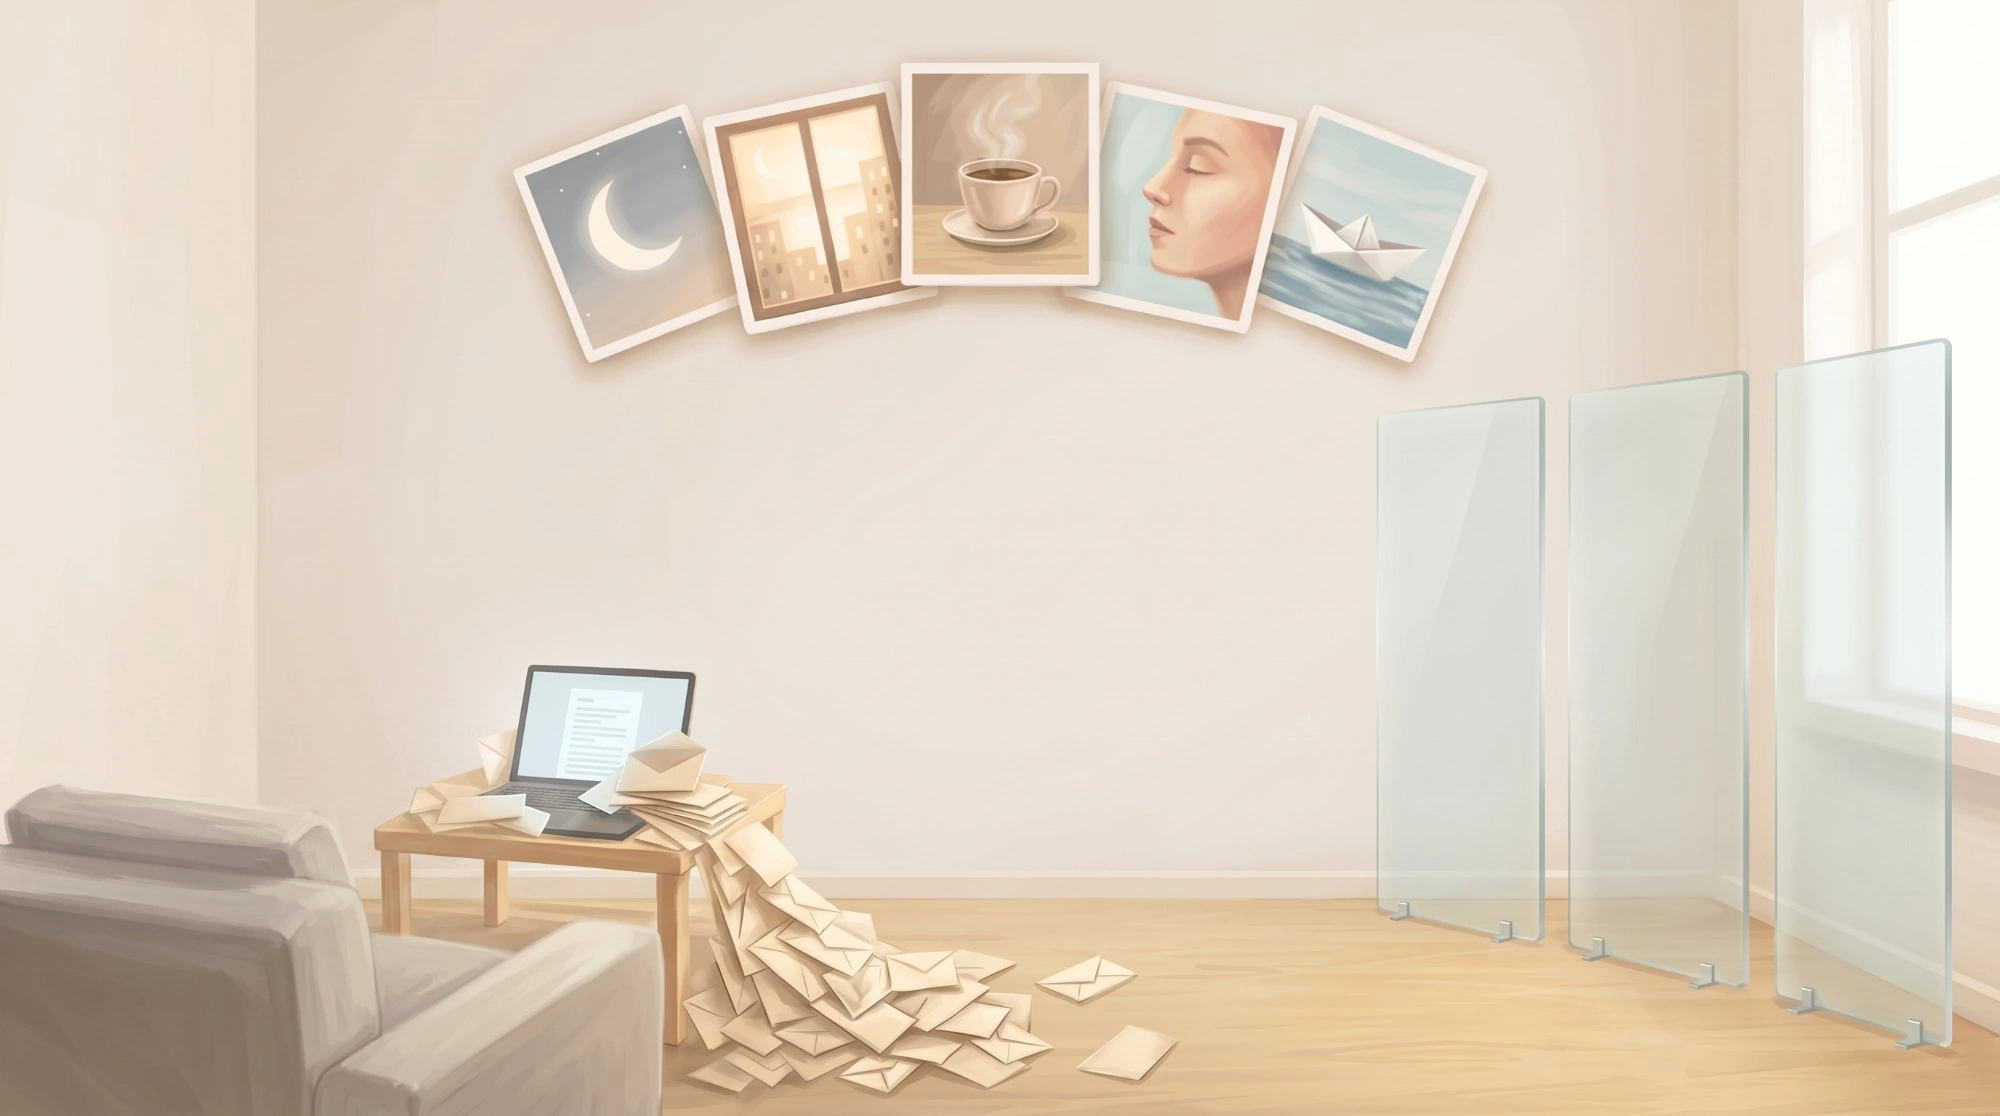
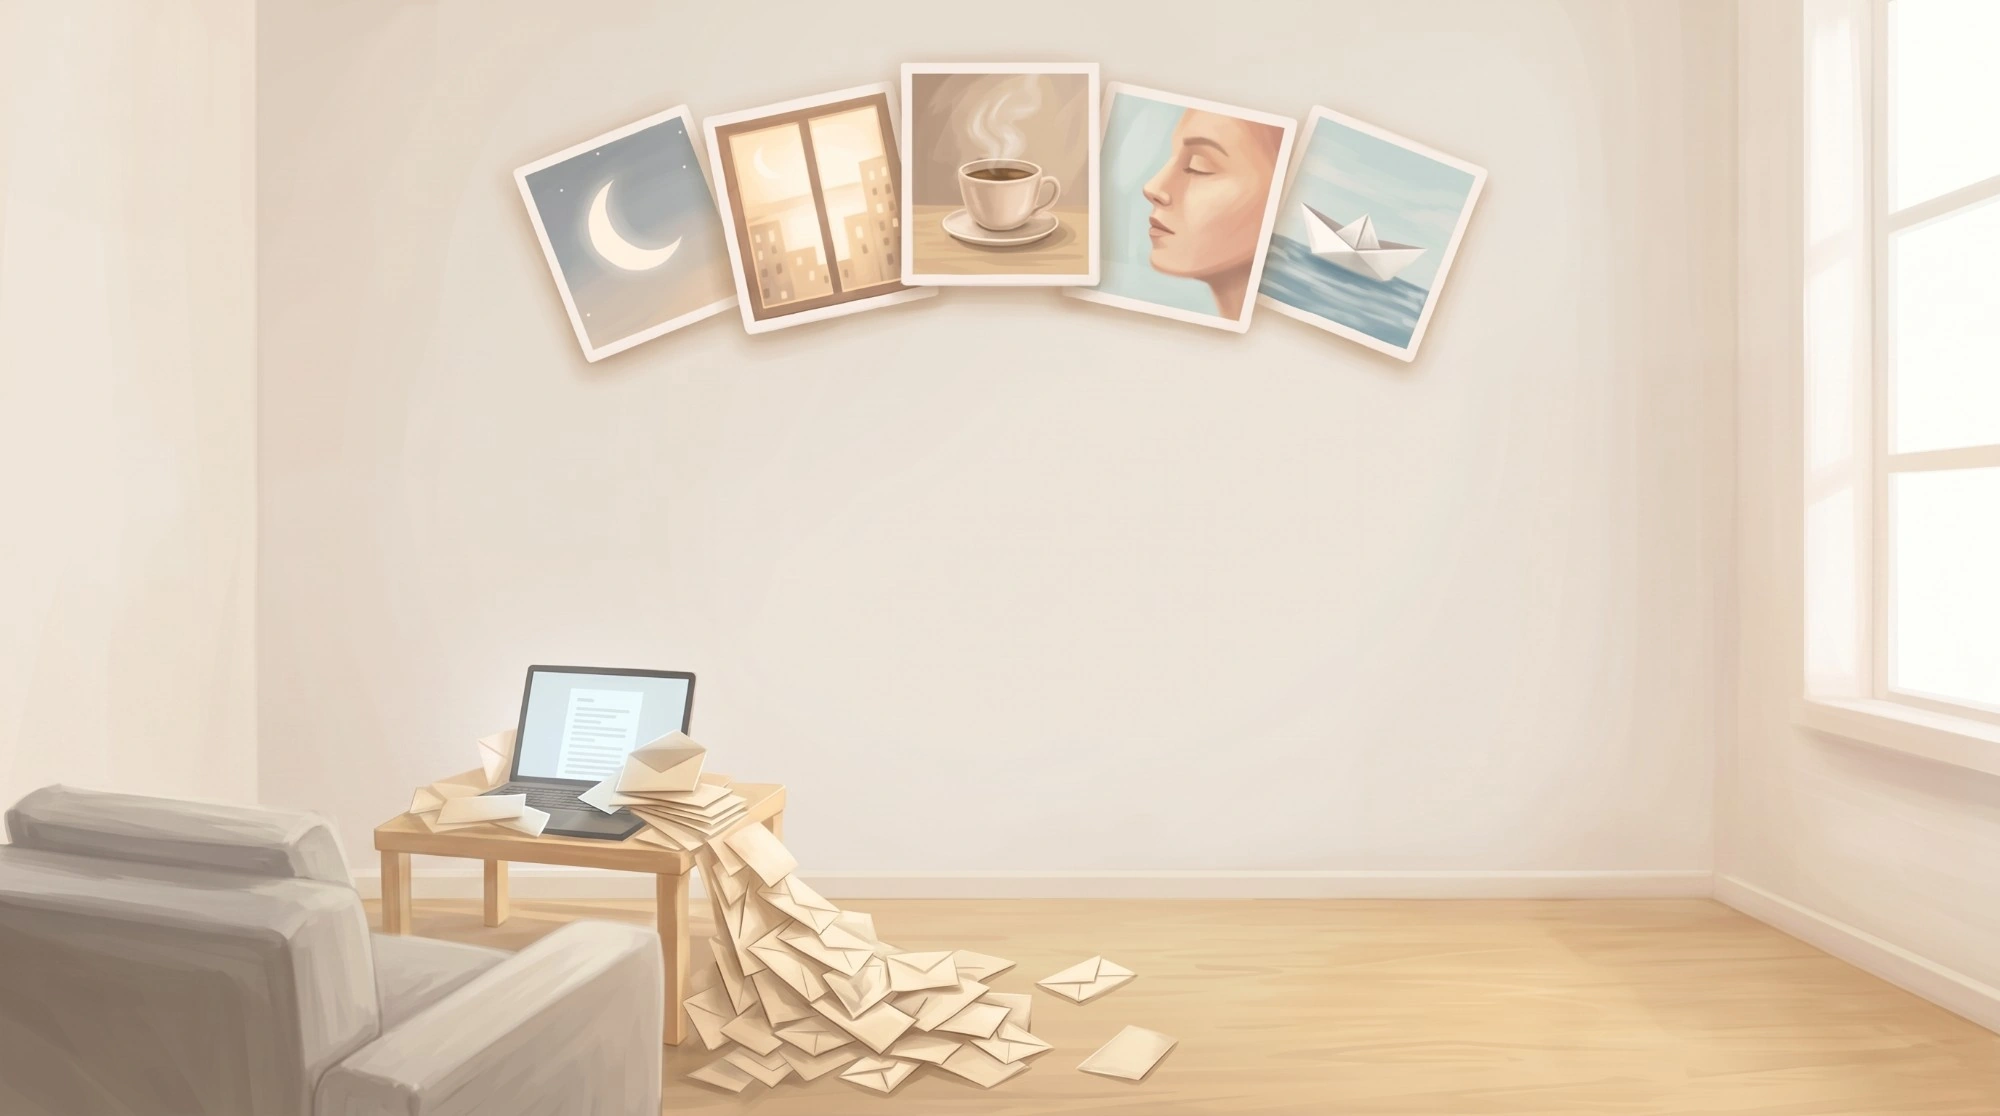
PlayLetter room, pass 2: floating phones, aligned hand screen, warmer evening.
The glass panels are gone from the room (taken from the no-panels plate); three phones hover on
the right with real screens and soft floor shadows. The phone in his hand is mapped to its painted
screen corners and the painted glow ring is cut away. Sunset reads from the window side, night is
softer and no longer purple, the waveform is symmetric, and the frame keeps arc and foot in view.

Claude-Session: https://claude.ai/code/session_01WcPpuVHTTS4izhVfNtPiRx

diff --git a/scenes/playletter-room/index.html b/scenes/playletter-room/index.html
@@ -23,8 +23,6 @@
 
   /* The room is authored at 2000 x 1116; JS scales and pans it to fit. */
   #view { position: fixed; inset: 0; overflow: hidden; }
-  #bleed { position: absolute; inset: -60px; width: calc(100% + 120px); height: calc(100% + 120px); object-fit: cover; filter: blur(40px) saturate(.9); opacity: .9; }
-  #view.wide #stage { -webkit-mask-image: linear-gradient(90deg, transparent, #000 4%, #000 96%, transparent); mask-image: linear-gradient(90deg, transparent, #000 4%, #000 96%, transparent); }
   #stage { position: absolute; left: 0; top: 0; width: 2000px; height: 1116px; transform-origin: 0 0; will-change: transform; }
   #stage > * { position: absolute; }
   .plate { left: 0; top: 0; width: 2000px; height: 1116px; transition: opacity 1.2s ease; }
@@ -45,22 +43,29 @@
   #brand span { display: block; margin-top: 26px; font: 400 40px/1 Jost, sans-serif; letter-spacing: .32em; padding-left: .32em; color: #4A4A45; }
 
   #wave { left: 0; top: 0; width: 2000px; height: 1116px; pointer-events: none; }
+  #view { background: #E9E4DC; }
 
   /* app screens on the glass panels (mapped with matrix3d) */
-  .screen { left: 0; top: 0; width: 540px; height: 1200px; transform-origin: 0 0; overflow: hidden; background: #0D1117; border-radius: 28px; opacity: .93; }
-  .screen img { display: block; width: 540px; }
-  .screen .scroll { position: absolute; left: 0; width: 540px; will-change: transform; }
+  /* floating phones: a dark bezel around the real app screen, hovering over the floor */
+  .fphone { width: 208px; height: 450px; padding: 9px; border-radius: 38px; background: linear-gradient(145deg, #2a2d33, #0e1014 55%, #23262b);
+    box-shadow: 0 0 0 1.5px rgba(255,255,255,.18) inset, 0 30px 60px -20px rgba(30,24,18,.45); will-change: transform; transform-origin: 50% 50%; }
+  .fphone .screen { position: relative; width: 190px; height: 432px; border-radius: 30px; }
+  .fphone .screen img, .fphone .screen .scroll { width: 190px; }
+  .fshadow { width: 200px; height: 34px; border-radius: 50%; background: radial-gradient(closest-side, rgba(60,44,30,.42), rgba(60,44,30,0)); will-change: transform, opacity; }
+  .screen { overflow: hidden; background: #0D1117; }
+  .screen img { display: block; }
+  .screen .scroll { position: absolute; left: 0; will-change: transform; }
   .screen .head, .screen .nav { position: absolute; left: 0; z-index: 2; }
   .screen .head { top: 0; } .screen .nav { bottom: 0; }
-  .screen::after { content: ""; position: absolute; inset: 0; z-index: 3; border-radius: 28px;
+  .screen::after { content: ""; position: absolute; inset: 0; z-index: 3; border-radius: inherit;
     background: linear-gradient(115deg, rgba(255,255,255,.20) 0%, rgba(255,255,255,0) 38%, rgba(255,255,255,0) 70%, rgba(255,255,255,.08) 100%); }
-  .progress { position: absolute; left: 61px; top: 600px; height: 7px; width: 0; background: var(--mint); border-radius: 4px; z-index: 2; }
+  .progress { position: absolute; left: 21px; top: 214px; height: 3px; width: 0; background: var(--mint); border-radius: 2px; z-index: 2; }
 
   /* the man: the body and three cut pieces that move */
   .piece { will-change: transform; }
   .piece > img { position: absolute; left: 0; top: 0; }
-  #handScreen { overflow: hidden; border-radius: 6px; background: #0D1117; }
-  #handScreen img { width: 100%; display: block; will-change: transform; }
+  #handScreen { left: 0; top: 0; width: 120px; height: 280px; overflow: hidden; border-radius: 12px; background: #0D1117; transform-origin: 0 0; }
+  #handScreen img { width: 120px; display: block; will-change: transform; }
 
   #shade { left: 0; top: 0; width: 2000px; height: 1116px; mix-blend-mode: multiply; pointer-events: none; }
   #glow  { left: 0; top: 0; width: 2000px; height: 1116px; mix-blend-mode: screen; pointer-events: none; }
@@ -100,7 +105,6 @@
 </head>
 <body>
 <div id="view" aria-hidden="true">
-  <img id="bleed" src="img/plate-a.webp" alt="">
   <div id="stage">
     <img class="plate" data-wall="a" src="img/plate-a.webp" alt="">
     <img class="plate" data-wall="b" src="img/plate-b.webp" alt="">
@@ -110,13 +114,7 @@
     <div class="wall" data-wall="c" id="frameArt"><img src="img/mark.webp" alt=""></div>
     <div class="wall" data-wall="ab" id="brand"><img src="img/mark.webp" alt=""><span>PLAYLETTER</span></div>
 
-    <div class="screen" id="scrFeed">
-      <img class="head" src="img/scr-feed-head.webp" alt="">
-      <div class="scroll"><img src="img/scr-feed.webp" alt=""><img src="img/scr-feed.webp" alt=""></div>
-      <img class="nav" src="img/scr-feed-nav.webp" alt="">
-    </div>
-    <div class="screen" id="scrPlayer"><img src="img/scr-player.webp" alt=""><div class="progress"></div></div>
-    <div class="screen" id="scrQueue"><div class="scroll"><img src="img/scr-queue.webp" alt=""></div></div>
+    <div class="fshadow" data-i="0"></div><div class="fshadow" data-i="1"></div><div class="fshadow" data-i="2"></div>
 
     <img id="body" class="piece" src="img/man-body.webp" alt="">
     <div id="head" class="piece"><img src="img/man-head.webp" alt=""></div>
@@ -129,6 +127,13 @@
     <img id="arm" src="img/couch-arm.webp" alt="">
 
     <canvas id="shade" width="1000" height="558"></canvas>
+    <div class="fphone" data-i="0"><div class="screen" id="scrFeed">
+      <img class="head" src="img/scr-feed-head.webp" alt="">
+      <div class="scroll"><img src="img/scr-feed.webp" alt=""><img src="img/scr-feed.webp" alt=""></div>
+      <img class="nav" src="img/scr-feed-nav.webp" alt="">
+    </div></div>
+    <div class="fphone" data-i="1"><div class="screen" id="scrPlayer"><img src="img/scr-player.webp" alt=""><div class="progress"></div></div></div>
+    <div class="fphone" data-i="2"><div class="screen" id="scrQueue"><div class="scroll"><img src="img/scr-queue.webp" alt=""></div></div></div>
     <canvas id="wave" width="2000" height="1116"></canvas>
     <canvas id="glow" width="1000" height="558"></canvas>
   </div>
@@ -182,30 +187,30 @@ for (const n of ["head", "hand", "foot"]) {
 { const p = layers.pieces.body; $("#body").style.transformOrigin = `${PIV.body[0] - p.x}px ${PIV.body[1] - p.y}px`; }
 
 // the phone screen in his hand: a small rotated window, under the fingers
-Object.assign($("#handScreen").style, { left: 276 - handBox.x + "px", top: 712 - handBox.y + "px", width: "42px", height: "102px", transform: "rotate(8deg)", transformOrigin: "50% 50%" });
+$("#handScreen").style.transform = quadMatrix(120, 280,
+  [[281, 710], [323, 713], [306, 809], [264, 804]].map(([x, y]) => [x - handBox.x, y - handBox.y]));
 
 // ---------- fit + pan ----------
 const view = $("#view"), stage = $("#stage");
 let fit = { s: 1, ox: 0, oy: 0, pan: 0 };
 function layout() {
   const vw = view.clientWidth, vh = view.clientHeight;
-  // cover the view, but never crop away the photo arc (top) or his foot (bottom): rows 40..1060 stay in
-  const s = Math.max(vh / H, Math.min(Math.max(vw / W, vh / H), vh / 1020));
-  const overX = W * s - vw, overY = H * s - vh;
-  view.classList.toggle("wide", overX < -1);
-  fit = { s, overX, overY, vw, vh };
+  const s = Math.max(vw / W, vh / H);
+  const rows = vh / s;                                   // how many room rows fit
+  const top = rows >= 950 ? Math.min(H - rows, Math.max(0, 530 - rows / 2)) : 1005 - rows;
+  fit = { s, overX: W * s - vw, top, vw, vh };
 }
 addEventListener("resize", layout); layout();
 function applyCamera(t) {
   let x;
-  if (fit.overX <= 1) x = -fit.overX / 2;
+  if (fit.overX <= 1) x = 0;
   else if (reduced) x = -Math.min(fit.overX, Math.max(0, 300 * fit.s - fit.vw * 0.3));
   else {
     // narrow screens: drift slowly between him, the wall, and the panels
     const k = 0.5 - 0.5 * Math.cos((t / 70000) * Math.PI * 2);
     x = -fit.overX * (0.05 + 0.9 * k);
   }
-  const y = fit.overY > 0 ? -Math.min(fit.overY, Math.max(0, 40 * fit.s)) : 0;
+  const y = -fit.top * fit.s;
   stage.style.transform = `translate(${x}px, ${y}px) scale(${fit.s})`;
 }
 
@@ -272,15 +277,26 @@ function inset(q, ix, top, bottom) {
   const pt = (u, v) => lerp2(L(v), R(v), u);
   return [pt(ix, top), pt(1 - ix, top), pt(1 - ix, bottom), pt(ix, bottom)];
 }
-const PANELS = [
-  [[1377, 401], [1546, 397], [1544, 939], [1377, 916]],
-  [[1571, 375], [1748, 372], [1748, 985], [1571, 947]],
-  [[1775, 355], [1950, 339], [1950, 1047], [1777, 1001]],
+// three phones hovering on the right, fanned towards the room
+const PHONES = [
+  { x: 1452, y: 560, r: -7, ry: 14, s: 0.86, period: 6900, amp: 9, phase: 0.0 },
+  { x: 1638, y: 500, r: 0, ry: 0, s: 1.0, period: 7700, amp: 11, phase: 1.9 },
+  { x: 1826, y: 566, r: 7, ry: -14, s: 0.86, period: 7300, amp: 9, phase: 3.7 },
 ];
-[["#scrFeed", 0], ["#scrPlayer", 1], ["#scrQueue", 2]].forEach(([sel, i]) => {
-  const q = inset(PANELS[i], 0.09, 0.07, 0.62);
-  $(sel).style.transform = quadMatrix(540, 1200, q);
-});
+const FLOOR_AT = [950, 944, 956];
+const fphones = [...document.querySelectorAll(".fphone")], fshadows = [...document.querySelectorAll(".fshadow")];
+function floatPhones(t) {
+  PHONES.forEach((p, i) => {
+    const bob = Math.sin(t / p.period * Math.PI * 2 + p.phase) * p.amp;
+    const tilt = Math.sin(t / (p.period * 1.7) + p.phase) * 1.2;
+    Object.assign(fphones[i].style, { left: p.x - 104 + "px", top: p.y - 225 + "px",
+      transform: `perspective(1400px) translateY(${bob}px) rotate(${p.r + tilt * 0.4}deg) rotateY(${p.ry + tilt}deg) scale(${p.s})` });
+    const lift = 1 - (bob + p.amp) / (p.amp * 2);      // higher phone = softer, smaller shadow
+    Object.assign(fshadows[i].style, { left: p.x - 100 + "px", top: FLOOR_AT[i] - 17 + "px",
+      transform: `scale(${(0.8 + 0.12 * lift) * p.s}, ${p.s})`, opacity: 0.55 + 0.3 * lift });
+  });
+}
+floatPhones(0);
 
 // ---------- the day ----------
 const DAY_MS_1X = 8 * 60 * 1000;
@@ -311,15 +327,16 @@ function track(keys, h) {
 }
 // multiply colour of the room, and how much the screens glow
 const AMBIENT = [
-  [4.5, 84, 92, 120, 1],
-  [6.2, 150, 158, 190, 0.7],
-  [7.4, 200, 206, 220, 0.2],
-  [10, 214, 214, 216, 0.05],
-  [14, 218, 214, 208, 0],
-  [17, 214, 202, 188, 0.05],
-  [18.4, 214, 190, 170, 0.25],
-  [19.4, 146, 136, 160, 0.6],
-  [20.6, 84, 92, 120, 1],
+  [4.5, 144, 136, 132, 1],
+  [6.0, 192, 172, 176, 0.6],
+  [7.2, 214, 210, 212, 0.2],
+  [10, 216, 214, 212, 0.05],
+  [14, 220, 214, 206, 0],
+  [16.8, 224, 206, 184, 0.05],
+  [18.0, 240, 192, 146, 0.2],
+  [18.9, 236, 160, 124, 0.4],
+  [19.8, 190, 140, 136, 0.7],
+  [21.0, 144, 136, 132, 1],
 ];
 // sun patch path, in "unfolded" room space: the wall runs down to y=880, then the floor continues below it
 // [hour, cx, cy, skewX, skewY, scaleX, scaleY, strength, warmth]
@@ -370,7 +387,12 @@ function drawLight(h) {
   }
   // multiply layer: the room's ambient colour, with the sun patch lifted back towards white
   shade.globalCompositeOperation = "source-over";
-  shade.fillStyle = `rgb(${r},${g},${b})`; shade.fillRect(0, 0, 1000, 558);
+  const lg = shade.createLinearGradient(1000, 0, 0, 0);
+  const far = (v, cool) => Math.round(v * 0.86 + cool);
+  lg.addColorStop(0, `rgb(${Math.min(255, r + 14)},${Math.min(255, g + 10)},${Math.min(255, b + 6)})`);
+  lg.addColorStop(0.55, `rgb(${r},${g},${b})`);
+  lg.addColorStop(1, `rgb(${far(r, 0)},${far(g, 4)},${far(b, 14)})`);
+  shade.fillStyle = lg; shade.fillRect(0, 0, 1000, 558);
   if (sun && sun[6] > 0.01) {
     const strength = sun[6], warm = sun[7];
     const tmp = patchTint(255, 250 - warm * 8, 242 - warm * 30, strength);
@@ -391,9 +413,9 @@ function drawLight(h) {
       gr.addColorStop(0, `rgba(${col},${a})`); gr.addColorStop(1, `rgba(${col},0)`);
       glow.fillStyle = gr; glow.fillRect(0, 0, 1000, 558);
     };
-    blob(298, 762, 150, "190,225,255", 0.55 * screenGlow);        // phone on his face
-    blob(610, 722, 260, "205,225,255", 0.45 * screenGlow);        // laptop
-    for (const p of PANELS) blob((p[0][0] + p[1][0]) / 2, 560, 300, "150,215,185", 0.30 * screenGlow);
+    blob(292, 760, 110, "235,236,225", 0.42 * screenGlow);        // phone on his face
+    blob(610, 722, 240, "240,232,215", 0.38 * screenGlow);        // laptop
+    for (const p of PHONES) blob(p.x, p.y, 380, "150,215,185", 0.30 * screenGlow);
     blob(1000, 520, 380, "120,200,160", 0.22 * screenGlow * (wall === "c" ? 1.3 : 1));
   }
 }
@@ -417,27 +439,18 @@ function drawWave(t, beat) {
     return Math.max(0, phrase) * (0.35 + 0.65 * syll);
   };
   wave.lineCap = "round";
-  if (wall === "c") {
-    // the room's heartbeat, centre wall
-    const x0 = 520, x1 = 1330, y = 600, step = 14;
+  const bars = (x0, x1, y, step, width, maxA, alpha, mirror) => {
     for (let x = x0; x <= x1; x += step) {
-      const edge = Math.sin(((x - x0) / (x1 - x0)) * Math.PI);
-      const a = (18 + 150 * talk(x) * edge + 60 * beat * Math.exp(-((x - 925) ** 2) / 26000)) * edge;
-      wave.strokeStyle = `rgba(95,176,137,${0.55 + 0.4 * edge})`; wave.lineWidth = 7;
+      const u = (x - x0) / (x1 - x0);
+      const edge = Math.sin(u * Math.PI);
+      const k = mirror ? 1000 - Math.abs(x - 1000) : x;    // mirror the voice so both sides match
+      const a = (maxA * 0.08 + maxA * talk(k) * edge + maxA * 0.35 * beat * edge) * edge;
+      wave.strokeStyle = `rgba(95,176,137,${alpha * (0.55 + 0.45 * edge)})`; wave.lineWidth = width;
       wave.beginPath(); wave.moveTo(x, y - a / 2); wave.lineTo(x, y + a / 2); wave.stroke();
     }
-  } else {
-    // from the mark out to the first panel, like the original painting
-    const y = 506;
-    wave.strokeStyle = "rgba(95,176,137,.55)"; wave.lineWidth = 3; wave.setLineDash([2, 9]);
-    wave.beginPath(); wave.moveTo(1186, y); wave.lineTo(1232, y); wave.stroke(); wave.setLineDash([]);
-    for (let x = 1240; x <= 1350; x += 7) {
-      const edge = Math.sin(((x - 1236) / 118) * Math.PI);
-      const a = (6 + 70 * talk(x) * edge) * edge;
-      wave.strokeStyle = "rgba(95,176,137,.9)"; wave.lineWidth = 3.2;
-      wave.beginPath(); wave.moveTo(x, y - a / 2); wave.lineTo(x, y + a / 2); wave.stroke();
-    }
-  }
+  };
+  if (wall === "c") bars(670, 1330, 560, 13, 7, 170, 0.95, true);
+  else { bars(640, 800, 512, 9, 4, 80, 0.9, true); bars(1200, 1360, 512, 9, 4, 80, 0.9, true); }
 }
 
 // ---------- the man ----------
@@ -460,26 +473,27 @@ function man(t) {
   headEl.style.transform = `translateY(${lift}px) rotate(${look + nod}deg)`;
   // a thumb flick every few seconds: the hand bobs, the feed jumps and settles
   if (t - flick.at > flick.next) {
-    flick = { at: t, next: 2600 + Math.random() * 3800, from: flick.to, to: flick.to + 22 + Math.random() * 26 };
+    flick = { at: t, next: 2600 + Math.random() * 3800, from: flick.to, to: flick.to + 60 + Math.random() * 70 };
   }
   const k = Math.min(1, (t - flick.at) / 520), ease = 1 - Math.pow(1 - k, 3);
   const bob = k < 1 ? Math.sin(k * Math.PI) : 0;
   handEl.style.transform = `translateY(${lift}px) rotate(${-1.1 * bob}deg)`;
   const pos = flick.from + (flick.to - flick.from) * ease;
-  handImg.style.transform = `translateY(${-(pos % 110)}px)`;
+  handImg.style.transform = `translateY(${-(pos % 300)}px)`;
   return tap;
 }
 
 // ---------- the panels ----------
 const feed = $("#scrFeed .scroll"), queue = $("#scrQueue .scroll"), prog = $("#scrPlayer .progress");
-const FEED_H = 2952;
+const FEED_H = 1039;
 let feedY = 0, feedTarget = 0, feedNext = 0;
 function panels(t, dt) {
-  if (t > feedNext) { feedTarget += 260 + Math.random() * 320; feedNext = t + 3200 + Math.random() * 3000; }
+  if (t > feedNext) { feedTarget += 90 + Math.random() * 110; feedNext = t + 3200 + Math.random() * 3000; }
   feedY += (feedTarget - feedY) * Math.min(1, dt / 420);
-  feed.style.transform = `translateY(${-(feedY % FEED_H) + 84}px)`;
-  queue.style.transform = `translateY(${-140 * (0.5 - 0.5 * Math.cos(t / 9000))}px)`;
-  prog.style.width = `${(0.12 + 0.86 * ((t / 90000) % 1)) * 418}px`;
+  feed.style.transform = `translateY(${-(feedY % FEED_H) + 30}px)`;
+  queue.style.transform = `translateY(${-50 * (0.5 - 0.5 * Math.cos(t / 9000))}px)`;
+  prog.style.width = `${(0.12 + 0.86 * ((t / 90000) % 1)) * 148}px`;
+  floatPhones(t);
 }
 
 // ---------- clock ----------
